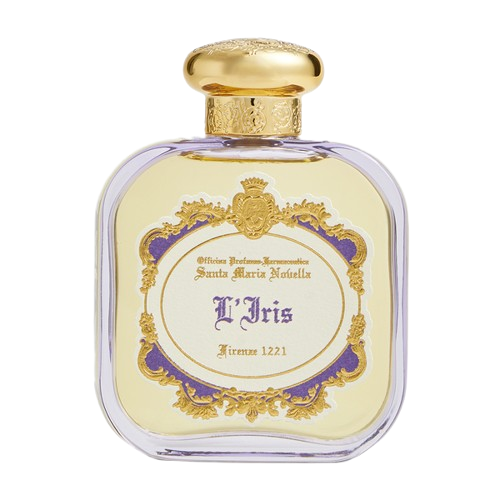
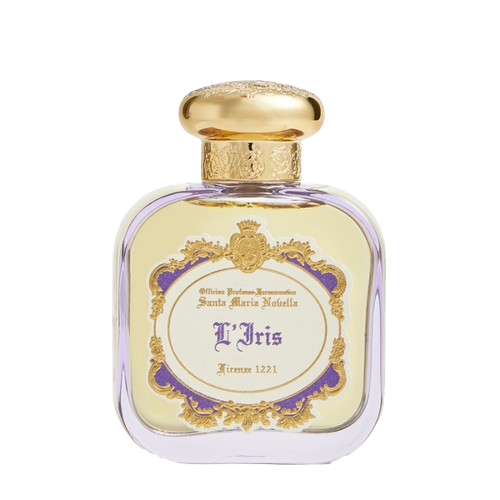
[추가, 수정] 장바구니 제거 로직 및 사진 수정

diff --git a/sahwang/app/src/main/java/com/green/sahwang/service/impl/cart/CartServiceImpl.java b/sahwang/app/src/main/java/com/green/sahwang/service/impl/cart/CartServiceImpl.java
@@ -1,11 +1,11 @@
 package com.green.sahwang.service.impl.cart;
 
+import com.green.sahwang.dto.request.TestCartProductsReqDto;
 import com.green.sahwang.entity.Cart;
 import com.green.sahwang.entity.CartProduct;
 import com.green.sahwang.entity.Member;
 import com.green.sahwang.entity.Product;
 import com.green.sahwang.exception.CartDomainException;
-import com.green.sahwang.exception.CartProductDomainException;
 import com.green.sahwang.exception.ProductDomainException;
 import com.green.sahwang.repository.CartProductRepository;
 import com.green.sahwang.repository.CartRepository;
@@ -16,6 +16,8 @@ import lombok.RequiredArgsConstructor;
 import lombok.extern.slf4j.Slf4j;
 import org.springframework.stereotype.Service;
 import org.springframework.transaction.annotation.Transactional;
+
+import java.util.List;
 
 @Service
 @RequiredArgsConstructor
@@ -65,29 +67,23 @@ public class CartServiceImpl implements CartService {
 
     @Override
     @Transactional
-    public Cart removeProductFromCart(Long memberId, Long productId) {
-        Member member = getMemberById(memberId);
-        Cart cart = cartRepository.findByMember(member)
-                .orElseThrow(() -> new CartDomainException("해당 회원의 장바구니를 찾을 수 없습니다"));
-
-        Product product = productRepository.findById(productId)
-                .orElseThrow(() -> new ProductDomainException("productId " + productId + " 해당 제품이 존재하지 않습니다"));
-
-        CartProduct cartProduct = cartProductRepository.findByCartAndProduct(cart, product)
-                .orElseThrow(() -> new CartProductDomainException("해당 제품이 장바구니에 존재하지 않습니다"));
-
-        cartProductRepository.delete(cartProduct);
-        return cart;
-    }
-
-    @Override
-    @Transactional
     public void clearCart(Long memberId) {
         Member member = getMemberById(memberId);
         Cart cart = cartRepository.findByMember(member)
                 .orElseThrow(() -> new CartDomainException("해당 회원의 장바구니를 찾을 수 없습니다"));
 
         cartProductRepository.deleteAllByCart(cart);
+    }
+
+    @Override
+    @Transactional
+    public void removeProductFromCart(List<TestCartProductsReqDto> cartProductsReqDtos) {
+        List<Product> products = cartProductsReqDtos.stream()
+                .map(cartProductsReqDto -> productRepository.findById(cartProductsReqDto.getProductId())
+                        .orElseThrow(() -> new ProductDomainException("productId " + cartProductsReqDto.getProductId() + " 해당 제품이 존재하지 않습니다"))).toList();
+
+        List<CartProduct> cartProducts = cartProductRepository.findAllByProductIn(products);
+        cartProductRepository.deleteAll(cartProducts);
     }
 
     private Cart createNewCartForMember(Member member) {

diff --git a/sahwang/app/src/main/java/com/green/sahwang/controller/CartProductController.java b/sahwang/app/src/main/java/com/green/sahwang/controller/CartProductController.java
@@ -1,15 +1,11 @@
 package com.green.sahwang.controller;
 
-import com.green.sahwang.dto.request.TestReqDto;
 import com.green.sahwang.dto.response.CartProductsResDto;
 import com.green.sahwang.service.cart.CartProductService;
 import lombok.RequiredArgsConstructor;
 import lombok.extern.slf4j.Slf4j;
 import org.springframework.http.ResponseEntity;
-import org.springframework.web.bind.annotation.GetMapping;
-import org.springframework.web.bind.annotation.RequestBody;
-import org.springframework.web.bind.annotation.RequestMapping;
-import org.springframework.web.bind.annotation.RestController;
+import org.springframework.web.bind.annotation.*;
 
 import java.util.List;
 
@@ -21,9 +17,10 @@ public class CartProductController {
 
     private final CartProductService cartProductService;
 
+
     @GetMapping("select")
-    public ResponseEntity<List<CartProductsResDto>> getProductsInCart(@RequestBody TestReqDto testReqDto) {
-        List<CartProductsResDto> productsInCart = cartProductService.getProductsInCart(testReqDto.getMemberId());
+    public ResponseEntity<List<CartProductsResDto>> getProductsInCart(@RequestParam Long memberId) {
+        List<CartProductsResDto> productsInCart = cartProductService.getProductsInCart(memberId);
         return ResponseEntity.ok(productsInCart);
     }
 }

diff --git a/sahwang/app/src/main/java/com/green/sahwang/controller/CartController.java b/sahwang/app/src/main/java/com/green/sahwang/controller/CartController.java
@@ -1,6 +1,7 @@
 package com.green.sahwang.controller;
 
 import com.green.sahwang.dto.request.CartProductsReqDto;
+import com.green.sahwang.dto.request.TestCartProductsReqDto;
 import com.green.sahwang.service.cart.CartService;
 import lombok.RequiredArgsConstructor;
 import lombok.extern.slf4j.Slf4j;
@@ -24,8 +25,9 @@ public class CartController {
     }
 
     @DeleteMapping("remove")
-    public ResponseEntity<String> removeProducts(@RequestBody CartProductsReqDto cartProductsReqDto) {
-        cartService.removeProductFromCart(cartProductsReqDto.getMemberId(), cartProductsReqDto.getProductId());
+    public ResponseEntity<String> removeProducts(@RequestBody List<TestCartProductsReqDto> testCartProductsReqDtos) {
+        log.info("testDtos : {}", testCartProductsReqDtos);
+        cartService.removeProductFromCart(testCartProductsReqDtos);
         return ResponseEntity.ok("delete products in cart");
     }
 }

diff --git a/sahwang/app/src/main/java/com/green/sahwang/security/filter/SecurityFilter.java b/sahwang/app/src/main/java/com/green/sahwang/security/filter/SecurityFilter.java
@@ -26,12 +26,12 @@ public class SecurityFilter extends OncePerRequestFilter {
     @Override
     public void doFilterInternal(HttpServletRequest request,
                                  HttpServletResponse response,
-                                 FilterChain filterChain) throws ServletException, IOException{
+                                 FilterChain filterChain) throws ServletException, IOException {
 
         log.info("Security Filter");
 
         String authorization = request.getHeader("Authorization");
-        log.info("Security Filter"+authorization);
+        log.info("Security Filter " + authorization);
 
         if( authorization == null || !authorization.startsWith("Bearer ")) {
             filterChain.doFilter(request, response);

diff --git a/sahwang/app/src/main/java/com/green/sahwang/service/cart/CartService.java b/sahwang/app/src/main/java/com/green/sahwang/service/cart/CartService.java
@@ -1,7 +1,9 @@
 package com.green.sahwang.service.cart;
 
-import com.green.sahwang.dto.response.ProductResDto;
+import com.green.sahwang.dto.request.TestCartProductsReqDto;
 import com.green.sahwang.entity.Cart;
+
+import java.util.List;
 
 public interface CartService {
 
@@ -9,7 +11,7 @@ public interface CartService {
 
     Cart addProductToCart(Long memberId, Long productId, int quantity);
 
-    Cart removeProductFromCart(Long memberId, Long productId);
-
     void clearCart(Long memberid);
+
+    void removeProductFromCart(List<TestCartProductsReqDto> cartProductsReqDtos);
 }

diff --git a/sahwang/app/src/main/java/com/green/sahwang/security/filter/JWTUtils.java b/sahwang/app/src/main/java/com/green/sahwang/security/filter/JWTUtils.java
@@ -19,8 +19,7 @@ import java.util.Date;
 @Slf4j
 public class JWTUtils {
 
-    @Value("${msa.jwt.secret}")
-    private String SECRET_KEY;
+    private String SECRET_KEY = "abcdefghijklmnopqrstuvwxyz01234567890";
 //
 //    // JWT 생성
     public String createJWT(String email, String accessToken){

diff --git a/sahwang/app/src/main/java/com/green/sahwang/repository/CartProductRepository.java b/sahwang/app/src/main/java/com/green/sahwang/repository/CartProductRepository.java
@@ -15,4 +15,6 @@ public interface CartProductRepository extends JpaRepository<CartProduct, Long> 
     List<CartProduct> findByCart(Cart cart);
 
     void deleteAllByCart(Cart cart);
+
+    List<CartProduct> findAllByProductIn(List<Product> products);
 }

diff --git a/sahwang/app/src/main/java/com/green/sahwang/dto/request/TestCartProductsReqDto.java b/sahwang/app/src/main/java/com/green/sahwang/dto/request/TestCartProductsReqDto.java
@@ -1,0 +1,9 @@
+package com.green.sahwang.dto.request;
+
+import lombok.Data;
+
+@Data
+public class TestCartProductsReqDto {
+
+    private Long productId;
+}
